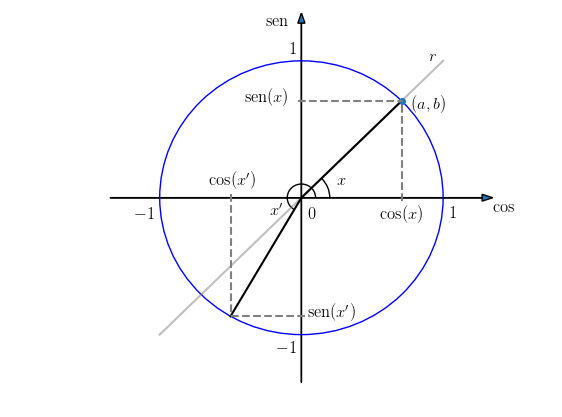
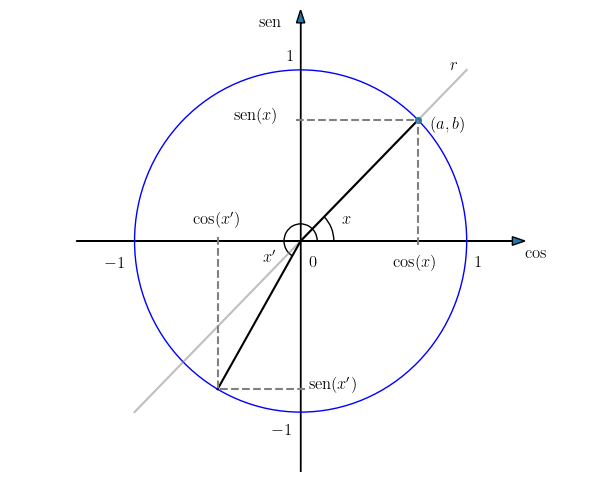
*: material sobre funções trigonométricas

diff --git a/src/PreCalculo/cap_funcao/cap_funcao.tex b/src/PreCalculo/cap_funcao/cap_funcao.tex
@@ -1126,17 +1126,19 @@ Com isso, podemos concluir que o domínio da função $f(x)$ é $\mathbb{R}\setm
   [Vídeo] | [Áudio] | \href{https://phkonzen.github.io/notas/contato.html}{[Contatar]}
 \end{flushright}
 
+Funções trigonométricas são funções transcendentes e são construídas a partir do estudo trigonométrico de triângulos retângulos.
+
 \subsection{Seno e cosseno}
 
 \begin{flushright}
   [Vídeo] | [Áudio] | \href{https://phkonzen.github.io/notas/contato.html}{[Contatar]}
 \end{flushright}
 
-As funções trigonométricas seno $y=\sen(x)$ e cosseno $y=\cos(x)$ podem ser definidas a partir do círculo trigonométrico (veja a Figura \ref{fig:cos_seno}). Seja $x$ o ângulo\footnote{Em geral utilizaremos a medida em radianos para ângulos.} de declividade da reta que passa pela origem do plano cartesiano (reta $r$ na Figura \ref{fig:cos_seno}). Seja, então, $(a,b)$ o ponto de interseção desta reta com a circunferência unitária\footnote{Circunferência do círculo de raio 1.}. Então, definimos:
+As funções trigonométricas seno $y=\sen(x)$ e cosseno $y=\cos(x)$ podem ser definidas a partir do \emph{círculo trigonométrico} (veja a Figura \ref{fig:cos_seno}). Seja $x$ o ângulo\footnote{Em geral utilizaremos a medida em radianos para ângulos.} de declividade da reta que passa pela origem do plano cartesiano (reta $r$ na Figura \ref{fig:cos_seno}). Seja, então, $(a,b)$ o ponto de interseção desta reta com a circunferência unitária\footnote{Circunferência do círculo de raio 1.}. Então, definimos:
 \begin{equation}
-  \sen(x) = a,\qquad \cos(x) = b.
+  \sen(x) = b,\qquad \cos(x) = a.
 \end{equation}
-A partir da definição, notemos que ambas funções têm domínio $(-\infty, \infty)$ e imagem $[-1, 1]$.
+A partir da definição, notamos que ambas funções têm domínio $(-\infty, \infty)$ e imagem $[-1, 1]$.
 
 \begin{figure}[H]
   \centering
@@ -1153,10 +1155,11 @@ Na Figura \ref{fig:cos_seno_valores} podemos extrair os valores das funções se
   &\sen\left(\frac{11\pi}{6}\right) = -\frac{1}{2},\qquad \cos\left(\frac{11\pi}{6}\right) = \frac{\sqrt{3}}{2},\\
 \end{align}
 \ifispython
-As funções seno e cosseno estão definidas no \sympy~ como \verb+sin+ e $\verb+cos+$, respectivamente. Por exemplo, para computar o seno de $\pi/6$, digitamos:
-\begin{verbatim}
-sin(pi/6)
-\end{verbatim}
+As funções seno e cosseno estão definidas no {\sympy} como \verb+sin+ e $\verb+cos+$, respectivamente. Por exemplo, para computar o seno de $\pi/6$, digitamos:
+\begin{lstlisting}
+  from sympy import *
+  sin(pi/6)
+\end{lstlisting}
 \fi
 
 \begin{figure}[H]
@@ -1166,13 +1169,17 @@ sin(pi/6)
   \label{fig:cos_seno_valores}
 \end{figure}
 
-Uma \emph{função} $f(x)$ é dita \emph{periódica} quando existe um número $p$, chamado de período da função, tal que
+Uma \emph{função} $f(x)$ é dita \emph{periódica} quando existe um número $p$, chamado de \emph{período} da função, tal que
 \begin{equation}
   f(x+p) = f(x)
 \end{equation}
-para qualquer valor de $x$ no domínio da função. Da definição das funções seno e cosseno, notemos que ambas são periódicas com período $2\pi$, i.e.
+para qualquer valor de $x$ no domínio da função. Da definição das funções seno e cosseno, observamos que ambas são periódicas com período $2\pi$, i.e.
 \begin{equation}
-  \sen(x+2\pi) = \sen(x),\qquad \cos(x+2\pi) = \cos(x),
+  \sen(x+2\pi) = \sen(x)
+\end{equation}
+e
+\begin{equation}
+   \cos(x+2\pi) = \cos(x)
 \end{equation}
 para qualquer valor de $x$.
 
@@ -1180,9 +1187,9 @@ Na Figura \ref{fig:cos_seno_graficos}, temos os esboços dos gráficos das funç
 
 \begin{figure}[H]
   \centering
-  \includegraphics[width=0.5\textwidth]{./cap_funcao/dados/fig_cos_seno_graficos/fig_seno_grafico}~
-  \includegraphics[width=0.5\textwidth]{./cap_funcao/dados/fig_cos_seno_graficos/fig_cosseno_grafico}
-  \caption{Esboços dos gráficos das funções seno (esquerda) e cosseno (direita).}
+  \includegraphics[width=0.8\textwidth]{./cap_funcao/dados/fig_cos_seno_graficos/fig_seno_grafico}\\
+  \includegraphics[width=0.8\textwidth]{./cap_funcao/dados/fig_cos_seno_graficos/fig_cosseno_grafico}
+  \caption{Esboços dos gráficos das funções seno (acima) e cosseno (abaixo).}
   \label{fig:cos_seno_graficos}
 \end{figure}
 
@@ -1199,28 +1206,29 @@ Das funções seno e cosseno, definimos as funções \emph{tangente}, \emph{cota
 \end{align}
 
 \ifispython
-No \sympy, as funções tangente, cotangente, secante e cossecante podem ser computadas com as funções $\verb+tan+$, $\verb+cot+$, $\verb+sec+$ e $\verb+csc+$, respectivamente. Por exemplo, podemos computar o valor de $\cosec(\pi/4)$ com o comando
-\begin{verbatim}
-csc(pi/4)
-\end{verbatim}
+No {\sympy}, as funções tangente, cotangente, secante e cossecante podem ser computadas com as funções $\verb+tan+$, $\verb+cot+$, $\verb+sec+$ e $\verb+csc+$, respectivamente. Por exemplo, podemos computar o valor de $\cosec(\pi/4)$ com o comando
+\begin{lstlisting}
+  from sympy import *
+  csc(pi/4)
+\end{lstlisting}
 \fi
 
-Na Figura \ref{fig:co_tg_graficos}, temos os esboços dos gráficos das funções tangente e cotangente. Observemos que a função tangente não está definida nos pontos $(2k+1)\pi/2$, para todo $k$ inteiro. Já, a função cotangente não está definida nos pontos $k\pi$, para todo $k$ inteiro. Ambas estas funções têm imagem $(-\infty, \infty)$ e período $\pi$.
+Na Figura \ref{fig:co_tg_graficos}, temos os esboços dos gráficos das funções \emph{tangente} e \emph{cotangente}. Observemos que a função tangente não está definida nos pontos $(2k+1)\pi/2$, para todo $k$ inteiro. Já, a função cotangente não está definida nos pontos $k\pi$, para todo $k$ inteiro. Ambas estas funções têm imagem $(-\infty, \infty)$ e período $\pi$.
 
 \begin{figure}[H]
   \centering
-  \includegraphics[width=0.5\textwidth]{./cap_funcao/dados/fig_co_tg_graficos/fig_tg_grafico}~
-  \includegraphics[width=0.5\textwidth]{./cap_funcao/dados/fig_co_tg_graficos/fig_cotg_grafico}
-  \caption{Esboços dos gráficos das funções tangente (esquerda) e cotangente(direita).}
+  \includegraphics[width=0.7\textwidth]{./cap_funcao/dados/fig_co_tg_graficos/fig_tg_grafico}\\
+  \includegraphics[width=0.7\textwidth]{./cap_funcao/dados/fig_co_tg_graficos/fig_cotg_grafico}
+  \caption{Esboços dos gráficos das funções tangente (acima) e cotangente(abaixo).}
   \label{fig:co_tg_graficos}
 \end{figure}
 
-Na Figura \ref{fig:co_sec_graficos}, temos os esboços dos gráficos das funções secante e cossecante. Observemos que a função secante não está definida nos pontos $(2k+1)\pi/2$, para todo $k$ inteiro. Já, a função cossecante não está definida nos pontos $k\pi$, para todo $k$ inteiro. Ambas estas funções têm imagem $(-\infty, 1]\cup [1, \infty)$ e período $\pi$.
+Na Figura \ref{fig:co_sec_graficos}, temos os esboços dos gráficos das funções \emph{secante} e \emph{cossecante}. Observemos que a função secante não está definida nos pontos $(2k+1)\pi/2$, para todo $k$ inteiro. Já, a função cossecante não está definida nos pontos $k\pi$, para todo $k$ inteiro. Ambas estas funções têm imagem $(-\infty, 1]\cup [1, \infty)$ e período $\pi$.
 
 \begin{figure}[H]
   \centering
-  \includegraphics[width=0.5\textwidth]{./cap_funcao/dados/fig_co_sec_graficos/fig_sec_grafico}~
-  \includegraphics[width=0.5\textwidth]{./cap_funcao/dados/fig_co_sec_graficos/fig_cosec_grafico}
+  \includegraphics[width=0.7\textwidth]{./cap_funcao/dados/fig_co_sec_graficos/fig_sec_grafico}\\
+  \includegraphics[width=0.7\textwidth]{./cap_funcao/dados/fig_co_sec_graficos/fig_cosec_grafico}
   \caption{Esboços dos gráficos das funções tangente (esquerda) e cotangente(direita).}
   \label{fig:co_sec_graficos}
 \end{figure}
@@ -1231,7 +1239,7 @@ Na Figura \ref{fig:co_sec_graficos}, temos os esboços dos gráficos das funçõ
   [Vídeo] | [Áudio] | \href{https://phkonzen.github.io/notas/contato.html}{[Contatar]}
 \end{flushright}
 
-Aqui, vamos apresentar algumas identidades trigonométricas que serão utilizadas ao longo do curso de cálculo. Comecemos pela identidade fundamental
+Aqui, vamos apresentar algumas identidades trigonométricas que serão utilizadas ao longo do curso de cálculo. Comecemos pela \emph{identidade fundamental}
 \begin{equation}
   \sen^2 x + \cos^2 x = 1.
 \end{equation}
@@ -1280,10 +1288,11 @@ Também, temos as fórmulas para o ângulo metade
     \sen^2 \frac{x}{2} = \frac{1 - \cos x}{2}.
   \end{equation}
   Então, isolando $\cos x$, obtemos
-  \begin{align}
-    \sen^2 \frac{x}{2} = \frac{1 - \cos x}{2} &\Rightarrow 1 - \cos x = 2\sen^2 \frac{x}{2}\\
-                                              &\Rightarrow \cos x - 1 = -2\sen^2 \frac{x}{2}.
-  \end{align}
+  \begin{gather}
+    \sen^2 \frac{x}{2} = \frac{1 - \cos x}{2}\\
+    1 - \cos x = 2\sen^2 \frac{x}{2}\\
+    \cos x - 1 = -2\sen^2 \frac{x}{2}.
+  \end{gather}
 \end{resol}
 
 \subsection*{Exercícios}
@@ -1293,9 +1302,36 @@ Também, temos as fórmulas para o ângulo metade
 \end{flushright}
 
 \begin{exer}
-  Mostre que $\sen x$ é  uma função ímpar, i.e.
+  Calcule os seguintes valores
+  \begin{enumerate}[a)]
+  \item $\sen(7\pi/6)$
+  \item $\cos(7\pi/6)$
+  \item $\tg(7\pi/6)$
+  \item $\cotg(7\pi/6)$
+  \item $\sec(7\pi/6)$
+  \item $\cosec(7\pi/6)$
+  \end{enumerate}
+\end{exer}
+\begin{resp}
+  a) $-1/2$; b) $-\sqrt{3}/2$; c) $\sqrt{3}/3$; d) $\sqrt{3}$; e) $-2\sqrt{3}/3$; f) $-2$
+\end{resp}
+
+\begin{exer}
+  Calcule os seguintes valores
+  \begin{enumerate}[a)]
+  \item $\sen(-pi/3)$
+  \item $tg(-3\pi/4)$
+  \item $\cos(19\pi/6)$
+  \end{enumerate}
+\end{exer}
+\begin{resp}
+  a) $-\sqrt{3}/2$; b) $1$; c) $-\sqrt{3}/2$
+\end{resp}
+
+\begin{exer}
+  Mostre que $\sen x$ é  uma \emph{função ímpar}\footnote{Por definição, $f(x)$ é função ímpar quando $f(x)=-f(-x)$.}, i.e.
   \begin{equation}
-    \sen x = \sen(-x)
+    \sen x = -\sen(-x)
   \end{equation}
   para todo número real $x$.
 \end{exer}
@@ -1304,14 +1340,21 @@ Também, temos as fórmulas para o ângulo metade
 \end{resp}
 
 \begin{exer}
-  Mostre que $\cos x$ é  uma função par, i.e.
+  Mostre que $\cos x$ é  uma \emph{função par}\footnote{Por definição, $f(x)$ é uma função par quando $f(x)=f(-x)$.}, i.e.
   \begin{equation}
-    \cos x = -\cos(-x)
+    \cos x = \cos(-x)
   \end{equation}
   para todo número real $x$.
 \end{exer}
 \begin{resp}
   Dica: analise o ciclo trigonométrico.
+\end{resp}
+
+\begin{exer}
+  Determine os pontos de interseção entre as funções $f(x)=2x/\pi$ e $g(x)=\sen(x)$.
+\end{exer}
+\begin{resp}
+  $(-\pi/2, -1)$, $(0,0)$, $(\pi/2, 1)$
 \end{resp}
 
 \section{Operações com funções}\label{cap_funcao_sec_opfun}

diff --git a/src/PreCalculo/cap_funcao/dados/fig_cos_seno_graficos/fig_cos_seno_graficos.py b/src/PreCalculo/cap_funcao/dados/fig_cos_seno_graficos/fig_cos_seno_graficos.py
@@ -1,8 +1,15 @@
 #!/bin/python3
 
 import numpy as np
+import matplotlib.pyplot as plt
 from sympy import *
-init_printing()
+
+plt.rcParams.update({
+     "text.usetex": True,
+     "font.family": "serif",
+     "font.size": 12
+     })
+
 var('x',real=True)
 
 # seno
@@ -17,6 +24,7 @@ ax.set_xticks([-np.pi,-np.pi/2,0,np.pi/2,np.pi,3*np.pi/2,2*np.pi])
 ax.set_xticklabels(['$-\\pi$','$-\\frac{\\pi}{2}$','$0$','$\\frac{\\pi}{2}$',
                     '$\\pi$','$\\frac{3\\pi}{2}$','$2\\pi$'])
 ax.set_yticks([-1,1])
+ax.grid()
 fig.savefig('fig_seno_grafico.png')
 
 # cosseno
@@ -31,6 +39,7 @@ ax.set_xticks([-np.pi,-np.pi/2,0,np.pi/2,np.pi,3*np.pi/2,2*np.pi])
 ax.set_xticklabels(['$-\\pi$','$-\\frac{\\pi}{2}$','$0$','$\\frac{\\pi}{2}$',
                     '$\\pi$','$\\frac{3\\pi}{2}$','$2\\pi$'])
 ax.set_yticks([-1,1])
+ax.grid()
 fig.savefig('fig_cosseno_grafico.png')
 
 

diff --git a/src/PreCalculo/cap_funcao/dados/fig_cos_seno/fig_cos_seno.py b/src/PreCalculo/cap_funcao/dados/fig_cos_seno/fig_cos_seno.py
@@ -6,7 +6,7 @@ plt.rc('text', usetex=True)
 plt.rc('font', family='serif')
 plt.rc('font', size=12)
 
-fig = plt.figure()
+fig = plt.figure(figsize=(7.5,6))
 ax = fig.add_subplot(1,1,1)
 ax.axis('off')
 ax.set_xlim((-1.75,1.75))
